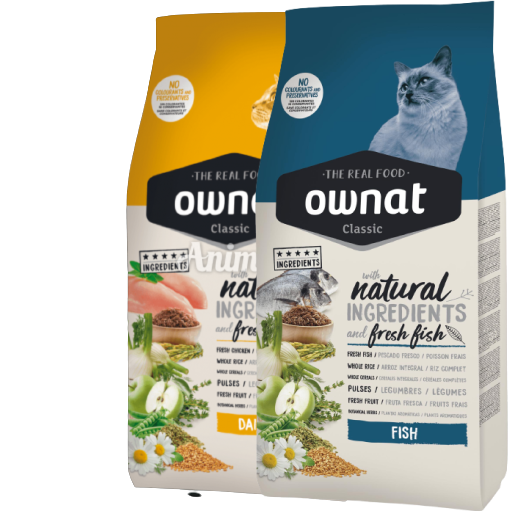
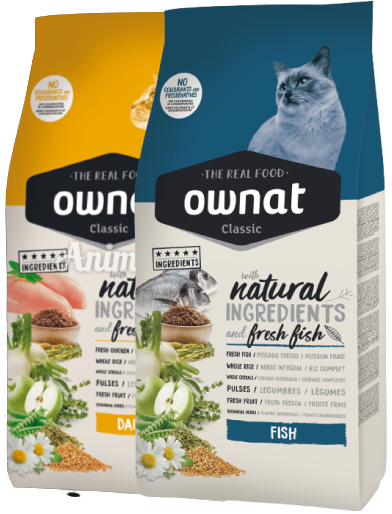
font

diff --git a/layouts/default.vue b/layouts/default.vue
@@ -8,27 +8,44 @@
 <script lang="ts">
 import Vue from 'vue'
 export default Vue.extend({
-    head() {
-      return {
-        title: "יאמי!",
-        htmlAttrs: {
+  head() {
+  return {
+    title: "יאמי!",
+    htmlAttrs: {
       lang: 'he',
       dir: 'rtl'
     },
-        link: [
-          {
-            rel: 'stylesheet',
-            type:"text/css",
-            href: 'https://cdn.jsdelivr.net/npm/bulma@0.9.4/css/bulma.min.css'
-          }
-        ]
-       }
+    link: [
+      {
+        rel: 'stylesheet',
+        type:"text/css",
+        href: 'https://cdn.jsdelivr.net/npm/bulma@0.9.4/css/bulma.min.css'
+      },
+      {
+        rel: 'preconnect',
+        href: 'https://fonts.googleapis.com'
+      },
+      {
+        rel: 'preconnect',
+        href: 'https://fonts.gstatic.com',
+        crossorigin: true
+      },
+      {
+        href: 'https://fonts.googleapis.com/css2?family=Varela+Round&display=swap"',
+        rel: 'stylesheet'
+      }
+    ]
   }
+}
+
 })
 </script>
 
 <style scoped>
   html{
     scroll-behavior: smooth;
+  }
+  *{
+    font-family: 'Varela Round', sans-serif !important;
   }
 </style>
